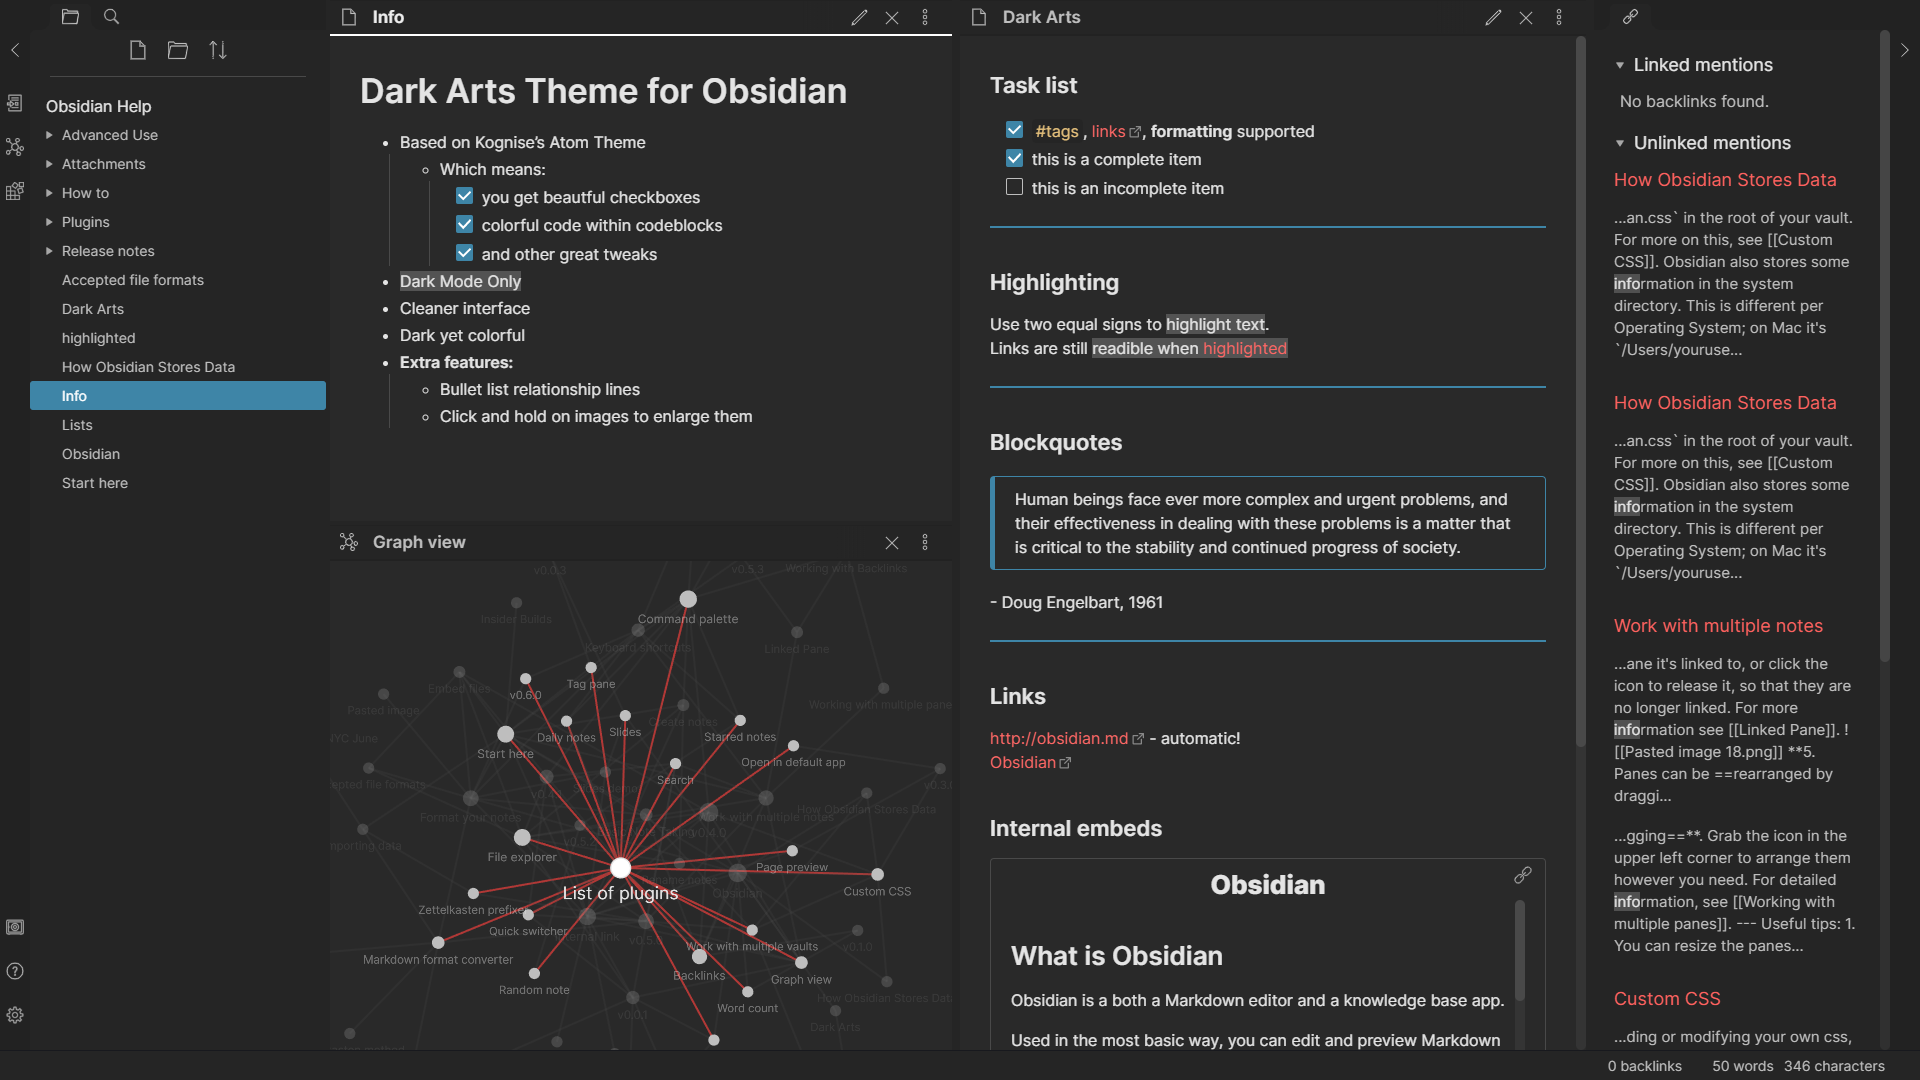
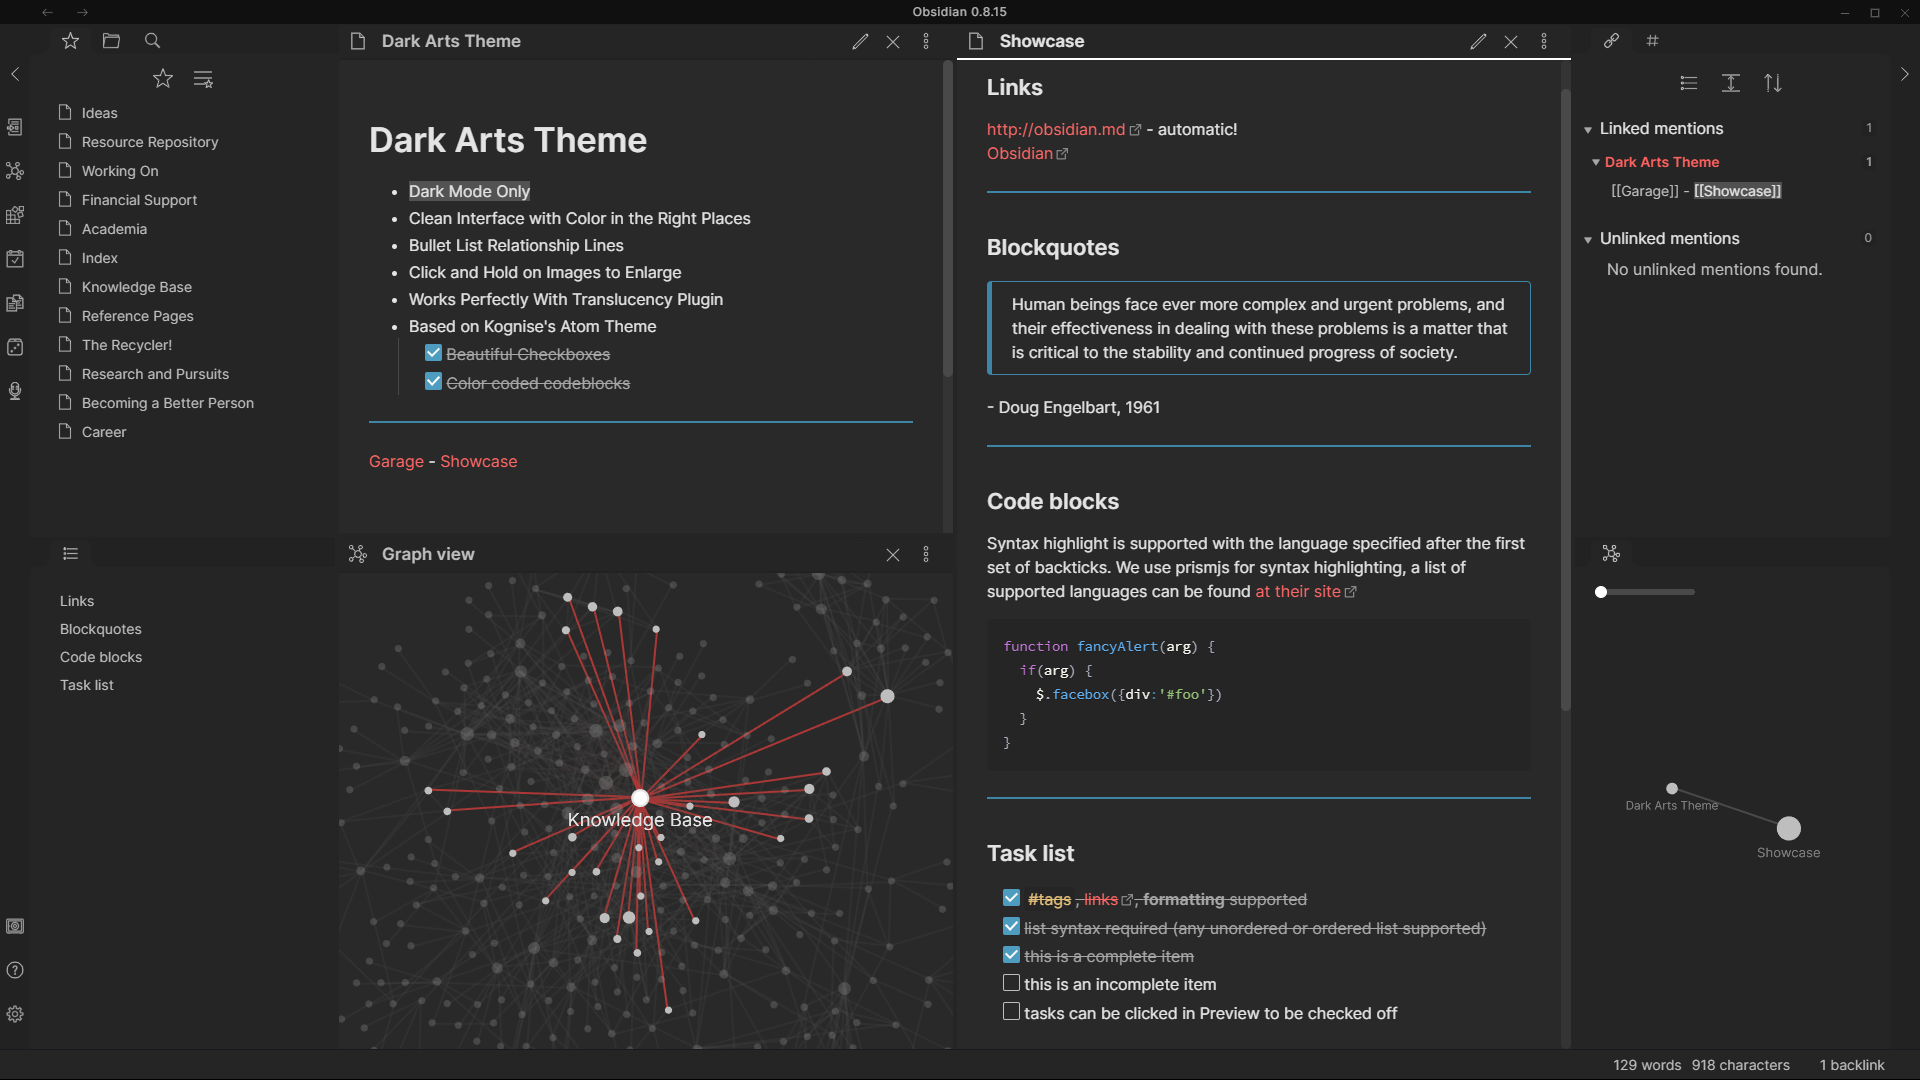
Fixes and Minor Updates

diff --git a/obsidian.css b/obsidian.css
@@ -42,6 +42,7 @@
   --purple: #c678dd;
   --blue: #61afef;
   --yellow: #e5c07b;
+  --black: #000000;
 }
 
 body {
@@ -56,18 +57,13 @@ body {
   color: var(--text-faint);
 }
 
-/*Note Title Color*/
-.workspace-leaf.mod-active .view-header-title{
-  color:#eeeeee;
-}
-
-.checkbox-container.is-enabled {
-  background-color: var(--aqua);
+.titlebar-inner {
+  color: var (var(--gray-2));
 }
 
 /*Divider color*/
 .markdown-preview-view hr {
-  background-color: #3e85a7;
+  border-color: var(--aqua);
 }
 
 /*Bullet list relatinship lines*/
@@ -99,7 +95,6 @@ li {
   
 }
 
-
 .document-search-button {
   color: var(--text-on-accent)
 }
@@ -113,6 +108,14 @@ li {
   background-color: var(--background-primary-alt);
   padding: 2px 4px;
   border-radius: 4px;
+}
+
+.checkbox-container {
+  background-color: #1d1d1d;
+}
+
+.checkbox-container.is-enabled {
+  background-color: var(--aqua);
 }
 
 .markdown-preview-view .task-list-item-checkbox {
@@ -133,7 +136,7 @@ li {
 
 .markdown-preview-view .task-list-item-checkbox:checked {
   border: none;
-  background-color: var(--aqua);
+  background-color: #3ea788;
 }
 
 .markdown-preview-view .task-list-item-checkbox:checked::before {

diff --git a/README.md b/README.md
@@ -1,10 +1,19 @@
 # Dark Arts Theme for Obsidian
 ![Dark Arts On](https://github.com/VoltaireNoir/DarkArts/blob/master/Dark%20Arts%20On.png)
 
-### Stock Obsidian Theme (for comparison):
+### Translucency Enabled:
 ![Dark Arts Off](https://github.com/VoltaireNoir/DarkArts/blob/master/Dark%20Arts%20off.png)
 
 ## Installation:
 - Download [obsidian.css](https://github.com/VoltaireNoir/DarkArts/releases/tag/v1.0)
 - Enable custom css in Obsidian
 - Copy the downloaded file to your vault directory (replace, if there is an existing file)
+
+## What's New?
+- Version 1.01
+  - Everything now works with Obsidian Version 0.8.15
+    - Fixed divider line color
+    - Fixed checklist checkbox color
+    - Fixed new nav bar button and text color
+  - Minor changes to checkbox appearance in settings
+  - Other minor changes
